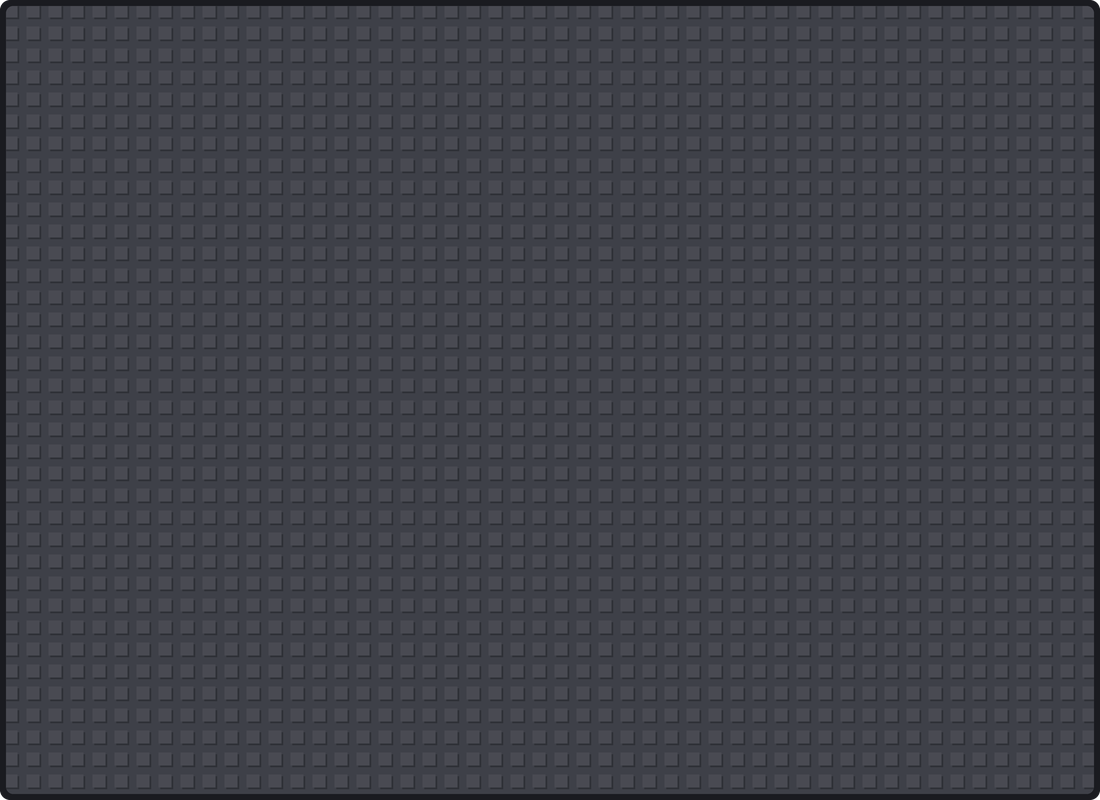
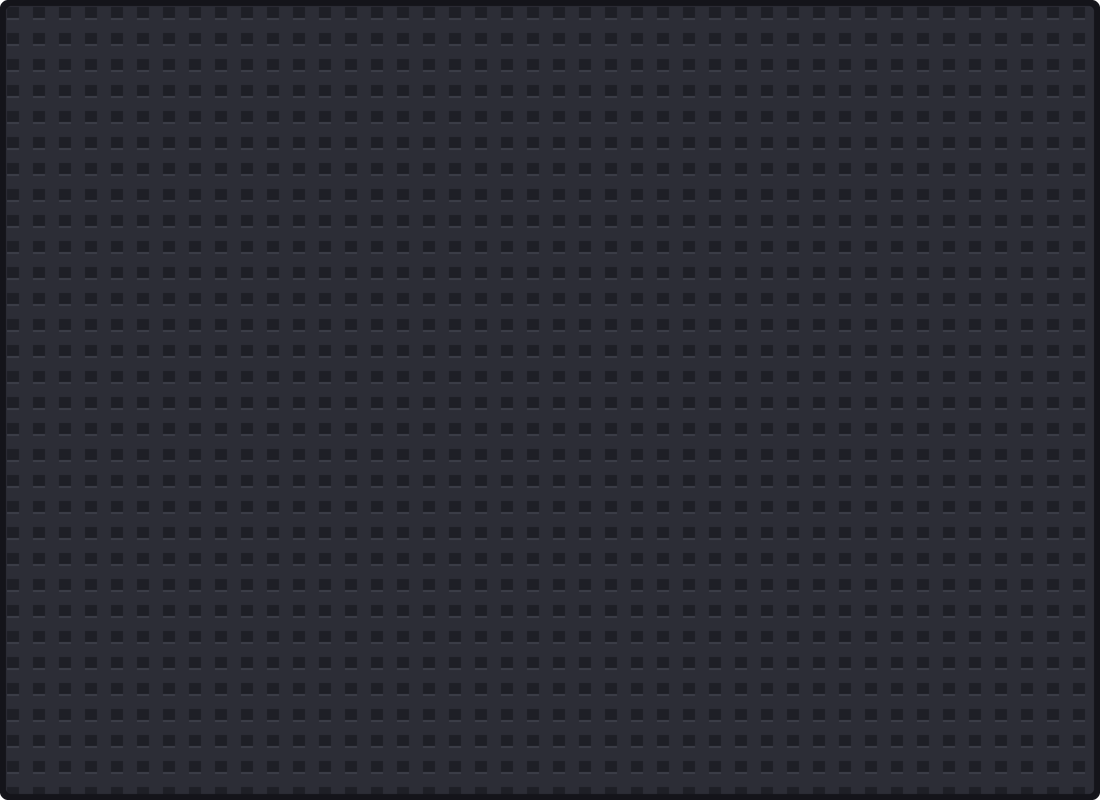
Break A Bed: shop polish, no rays behind menus, 3D item art plan
Claude-Session: https://claude.ai/code/session_016uvrS3Ui1ijFbyufuEdzSK

diff --git a/Break A Bed/UI Kit/source/shop3.py b/Break A Bed/UI Kit/source/shop3.py
@@ -1,0 +1,141 @@
+import sys, math
+from PIL import Image, ImageDraw, ImageFont, ImageFilter, ImageChops
+import kit, sim
+from kit import S, mix, mask_rr, label, FONT
+from preview import icon
+from products import dumbbell
+from hud import gloss
+
+DARK = (24, 24, 32)
+
+def lpat(size, cell, alpha=34, col=(0, 0, 0)):
+    """The reference's subtle 'L' stud marks: a short line down the left and along the bottom of each cell."""
+    lay = Image.new('RGBA', size, (0, 0, 0, 0)); d = ImageDraw.Draw(lay)
+    w, h = size; lw = max(1, cell // 12); L = cell * 0.42
+    for gy in range(0, h // cell + 2):
+        for gx in range(0, w // cell + 2):
+            x, y = gx * cell + cell * 0.3, gy * cell + cell * 0.3
+            d.line((x, y, x, y + L), fill=col + (alpha,), width=lw)
+            d.line((x, y + L, x + L, y + L), fill=col + (alpha,), width=lw)
+    return lay
+
+def grad2(w, h, a, b):
+    """diagonal gradient a (top-left) -> b (bottom-right)"""
+    g = Image.new('RGB', (w, h)); px = g.load()
+    for y in range(h):
+        for x in range(0, w):
+            t = (x / w * 0.7 + y / h * 0.3)
+            px[x, y] = mix(a, b, t)
+    return g
+
+def card(w, h, a, b, rays=True):
+    W, H = w * S, h * S
+    img = Image.new('RGBA', (W, H), (0, 0, 0, 0))
+    img.paste(DARK + (255,), (0, 0, W, H), mask_rr((W, H), (0, 0, W - 1, H - 1), 4 * S))
+    ow = 4 * S
+    m = mask_rr((W, H), (ow, ow, W - ow - 1, H - ow - 1), 2 * S)
+    img.paste(grad2(W // 4, H // 4, a, b).resize((W, H)), (0, 0), m)
+    if rays:
+        r = kit.rays(max(W, H), 14, 70)
+        r = r.crop(((r.width - W) // 2, int(r.height * 0.12), (r.width - W) // 2 + W, int(r.height * 0.12) + H))
+        r.putalpha(ImageChops.multiply(r.getchannel('A'), m)); img.alpha_composite(r)
+    p = lpat((W, H), 26 * S, 30); p.putalpha(ImageChops.multiply(p.getchannel('A'), m)); img.alpha_composite(p)
+    return img.resize((w, h), Image.LANCZOS)
+
+def window(w, h):
+    W, H = w * S, h * S
+    img = Image.new('RGBA', (W, H), (0, 0, 0, 0))
+    img.paste((20, 20, 26, 255), (0, 0, W, H), mask_rr((W, H), (0, 0, W - 1, H - 1), 8 * S))
+    m = mask_rr((W, H), (6 * S, 6 * S, W - 6 * S - 1, H - 6 * S - 1), 5 * S)
+    img.paste((44, 45, 54, 255), (0, 0), m)
+    lay = Image.new('RGBA', (W, H), (0, 0, 0, 0)); d = ImageDraw.Draw(lay)
+    cell = 26 * S; s = cell * 0.46
+    for gy in range(H // cell + 1):
+        for gx in range(W // cell + 1):
+            x, y = gx * cell + cell * 0.27, gy * cell + cell * 0.27
+            d.rectangle((x, y, x + s, y + s), fill=(30, 31, 38, 255))
+            d.line((x, y + s, x + s, y + s), fill=(60, 62, 72, 255), width=S * 2)
+    lay.putalpha(ImageChops.multiply(lay.getchannel('A'), m)); img.alpha_composite(lay)
+    return img.resize((w, h), Image.LANCZOS)
+
+def lime(w, h):
+    W, H = w * S, h * S
+    img = Image.new('RGBA', (W, H), (0, 0, 0, 0))
+    img.paste((22, 60, 10, 255), (0, 0, W, H), mask_rr((W, H), (0, 0, W - 1, H - 1), 4 * S))
+    m = mask_rr((W, H), (3 * S, 3 * S, W - 3 * S - 1, H - 3 * S - 1), 2 * S)
+    img.paste(kit.vgrad((W, H), (150, 245, 40), (70, 200, 20), 0, H), (0, 0), m)
+    p = lpat((W, H), 22 * S, 28); p.putalpha(ImageChops.multiply(p.getchannel('A'), m)); img.alpha_composite(p)
+    return img.resize((w, h), Image.LANCZOS)
+
+def purple(w, h):
+    W, H = w * S, h * S
+    img = Image.new('RGBA', (W, H), (0, 0, 0, 0))
+    img.paste((40, 10, 60, 255), (0, 0, W, H), mask_rr((W, H), (0, 0, W - 1, H - 1), 4 * S))
+    m = mask_rr((W, H), (3 * S, 3 * S, W - 3 * S - 1, H - 3 * S - 1), 2 * S)
+    img.paste(kit.vgrad((W, H), (220, 90, 255), (160, 40, 220), 0, H), (0, 0), m)
+    return img.resize((w, h), Image.LANCZOS)
+
+def robux(n):
+    W = n * S; im = Image.new('RGBA', (W, W), (0, 0, 0, 0)); d = ImageDraw.Draw(im)
+    pts = [(W/2 + W*0.46*math.cos(math.radians(a)), W/2 + W*0.46*math.sin(math.radians(a))) for a in range(-90, 270, 60)]
+    d.polygon(pts, fill=DARK)
+    sc = lambda k: [(W/2 + (x-W/2)*k, W/2 + (y-W/2)*k) for x, y in pts]
+    d.polygon(sc(0.82), fill=(255, 255, 255)); d.polygon(sc(0.55), fill=DARK); d.polygon(sc(0.37), fill=(255, 255, 255))
+    return im.resize((n, n), Image.LANCZOS)
+
+def price(w, h, amount):
+    b = lime(w, h)
+    fs = int(h * 0.62); f = ImageFont.truetype(FONT, fs)
+    isz = int(h * 0.62); tw = f.getlength(amount); x = (w - isz - 8 - tw) / 2
+    b.alpha_composite(robux(isz), (int(x), (h - isz) // 2))
+    label(b, (x + isz + 6, h / 2 - 2), amount, fs, anchor='lm')
+    return b
+
+def giftbtn(s):
+    b = purple(s, s); b.alpha_composite(sim.glyph('gift', int(s * 0.62)), (int(s * 0.19), int(s * 0.16))); return b
+
+def item(w, h, a, b, ic, amt, word, cost, amt_col=(110, 240, 40)):
+    c = card(w, h, a, b)
+    c.alpha_composite(ic, ((w - ic.width) // 2, 6))
+    sim.wtext(c, (w / 2, h - 96), amt + ' ' + word, 30, anchor='mm', hl=amt) if amt_col == (110, 240, 40) else None
+    gs = 56
+    c.alpha_composite(giftbtn(gs), (14, h - gs - 14))
+    c.alpha_composite(price(w - gs - 40, gs, cost), (gs + 24, h - gs - 14))
+    return c
+
+def main(bgpath, out):
+    Wd, Hd = 1600, 900
+    bg = Image.open(bgpath).convert('RGBA').resize((Wd, Hd)).filter(ImageFilter.GaussianBlur(10))
+    img = Image.blend(bg, Image.new('RGBA', (Wd, Hd), (40, 90, 30, 255)), 0.15)
+    x0, y0, ww, wh = 220, 60, 1080, 790
+    img.alpha_composite(window(ww, wh), (x0, y0))
+    hd = sim.header(ww - 12, 100, 'green', 'Shop')
+    img.alpha_composite(hd, (x0 + 6, y0 + 6))
+    xb = kit.x_mark(sim.sbox(84, 84, 'red', radius=0.04, cell=40, stud=(0, 0)))
+    img.alpha_composite(xb, (x0 + ww - 100, y0 + 14))
+    sim.wtext(img, (x0 + ww / 2, y0 + 150), '-- CASH --', 44, fill=(110, 240, 40), anchor='mm')
+    cw, ch, gap = (ww - 48 - 2 * 18) // 3, 280, 18
+    packs = [('+$15K', '9', 1), ('+$60K', '15', 2), ('+$250K', '30', 3), ('+$1M', '49', 4)]
+    for i, (amt, cost, n) in enumerate(packs[:3]):
+        ic = Image.new('RGBA', (220, 170), (0, 0, 0, 0))
+        for k in range(n):
+            ci = gloss(icon('cash', 150 - 10 * (n - 1)))
+            ic.alpha_composite(ci, (int(110 - ci.width / 2 + (k - (n - 1) / 2) * 30), int(14 + (n - 1 - k) * 0 - k * 12 + (n - 1) * 12)))
+        c = item(cw, ch, (40, 170, 20), (120, 230, 60), ic, amt, 'CASH', cost)
+        img.alpha_composite(c, (x0 + 24 + i * (cw + gap), y0 + 190))
+    sim.wtext(img, (x0 + ww / 2, y0 + 520), '-- STRENGTH --', 44, fill=(40, 210, 255), anchor='mm')
+    up = card(ww - 48, 230, (20, 150, 240), (70, 220, 255))
+    sim.wtext(up, (up.width / 2, 44), 'DOUBLE Your STRENGTH', 44, anchor='mm', hl='DOUBLE')
+    up.alpha_composite(gloss(dumbbell(170)), (40, 50))
+    sim.itext(up, (300, 140), 'x5', 104, (255, 255, 255))
+    ImageDraw.Draw(up).polygon([(500, 108), (500, 172), (548, 140)], fill=(255, 255, 255), outline=DARK, width=5)
+    sim.itext(up, (566, 140), 'x7', 104, (255, 210, 30))
+    up.alpha_composite(price(220, 84, '149'), (up.width - 250, 100))
+    img.alpha_composite(up, (x0 + 24, y0 + 565))
+    for i, (k, t) in enumerate([('star', 'Passes'), ('bolt', 'Strength'), ('cash', 'Cash')]):
+        img.alpha_composite(gloss(icon(k, 104)), (x0 + ww + 26, y0 + 150 + i * 160))
+        label(img, (x0 + ww + 78, y0 + 262 + i * 160), t, 28, anchor='mm')
+    img.convert('RGB').save(out, quality=92)
+
+if __name__ == '__main__':
+    main(sys.argv[1], sys.argv[2])

diff --git a/Break A Bed/UI Kit/UI Kit.md b/Break A Bed/UI Kit/UI Kit.md
@@ -43,6 +43,16 @@ The owner sent screenshots of a popular simulator (Shop/Index buttons, a dark st
 - **Item cards:** colored by section (Cash green, Strength cyan, passes rainbow or yellow), a white glow behind a big 3D icon that may poke out of the top, the amount in white with the number in green, then a small **purple gift button** (buy it for a friend) plus a wide **green price button** with the Robux icon.
 - **Strength tier card:** "**DOUBLE** Your STRENGTH", a big **x5 ▶ x7** (white then yellow, italic) with soft light rays behind, and the price on the right.
 
+### Shop polish (2026-10-12, after comparing with the other game)
+- **No light rays behind open menus** (owner: the white "circus" rays are annoying). Only a very soft sunburst **inside** item cards, behind the icon.
+- **Pattern = the reference's "L" marks**, not boxy studs: each cell has a short dark line down its left and along its bottom (about 12% opacity). The window body is dark `#2C2D36` with darker embossed squares (`sim-window.png`).
+- **Cards** (`card-green.png`, `card-cyan2.png`, `card-yellow2.png`): a thin near-black outline `#181820` (4 px), a diagonal gradient (darker top-left → lighter bottom-right), the L pattern and a soft sunburst. There's **no 3D bottom edge** on cards.
+- **Price button** (`price-lime.png`): a bright lime gradient `#96F528 → #46C814` with a dark green outline, a **white Robux icon** with a dark outline (`icon-robux-white.png`) and big white numbers. The gift button is a purple gradient square (`gift-purple.png`) with the white gift glyph.
+- Card text: "**+$15K** CASH" with the amount in green, a big heavy font, a dark stroke.
+- **The biggest difference is the item art.** The other game uses real 3D-rendered pictures (shoe piles, cash stacks, chests). Flat drawn icons will never look that good. Use real 3D instead:
+  1. **ViewportFrames** showing 3D models (free cash stacks, money bags, chests, dumbbells and beds from the Creator Store, or the game's own beds), slowly turning. This is how top simulators show pets and items.
+  2. Or ready-made **3D icon images** from the Creator Store (search "simulator icons", "cash icon 3D") or bought icon packs.
+
 ### Effects (the owner: "the effects in this game are crazy")
 - **Server announcements:** a big line at the top center for everyone, white with a dark stroke and the important part colored: "**Rong** broke the **INFINITY BED!**", "**Rong** bought **SERVER x2 STRENGTH!**". It slides in, stays 4 s and fades.
 - **Big center text** for events ("SERVER x2 STRENGTH!", "WEEKEND EVENT!", "NEW BED UNLOCKED!") with a glow and a pop-in.
@@ -101,7 +111,7 @@ Matched to the owner's reference picture on 2026-10-12. Use these exact values s
 Base colors: cyan `#1CC8F2`, blue `#247ADE`, pink `#EC22CD`, purple `#9648E8`, orange `#FF9416`, green `#54CA34`, red `#E2363C`, yellow `#FFE20C`, slate `#3E4454`.
 
 **Effects (same as the reference):**
-- **Light rays:** `fx-rays.png` behind every open menu, about 1.9× the window width, centered on it, ImageTransparency 0.25, spinning slowly (one full turn every 40 s). Fade in with the menu.
+- ~~Light rays behind open menus~~: **removed** (owner found them annoying).
 - **Glow:** `fx-glow.png` behind every item icon, about 1.3× the icon size, ImageTransparency 0.4.
 - **Featured slot:** the big item on the yellow card sits in a lighter yellow rounded panel (`#FFF078`, 6 px `#FFFABE` border, UICorner 46 px) with the glow behind it.
 - **Sparkles:** 3–4 `fx-sparkle.png` around each item icon at different sizes (16–40 px). They twinkle: grow from 0 to full size and fade out over about 1.2 s, each starting at a random time, looping.

diff --git a/Break A Bed/Decisions.md b/Break A Bed/Decisions.md
@@ -82,3 +82,4 @@ Back to [[Break A Bed/Project Overview|Project Overview]].
 - 2026-10-12: owner preferred the rounded gradient version over the square "identical" copy. Side buttons made **short** (about 236 × 88). #break-a-bed
 - 2026-10-12: **FINAL UI direction**: the owner's favourite simulator look (solid studded buttons with same-color dark outlines, white glyph icons, Montserrat Heavy, dark studded shop with a shiny green title bar, scrolling sections, floating italic stats, square right-side buttons) plus big effects (server announcements, flashy bed breaks, auras). Earlier styles replaced. #break-a-bed
 - 2026-10-12: Daily reward, Spin wheel and Free Gifts moved out of the shop's FREE tab to their own square buttons on the right of the main screen (with badges and the gift countdown). #break-a-bed
+- 2026-10-12: light rays behind open menus removed ("circus" look). Shop restyled closer to the other game (L pattern, thin outlines, lime price buttons). Item pictures should be real 3D (ViewportFrames or 3D icon images), not flat drawings. #break-a-bed
